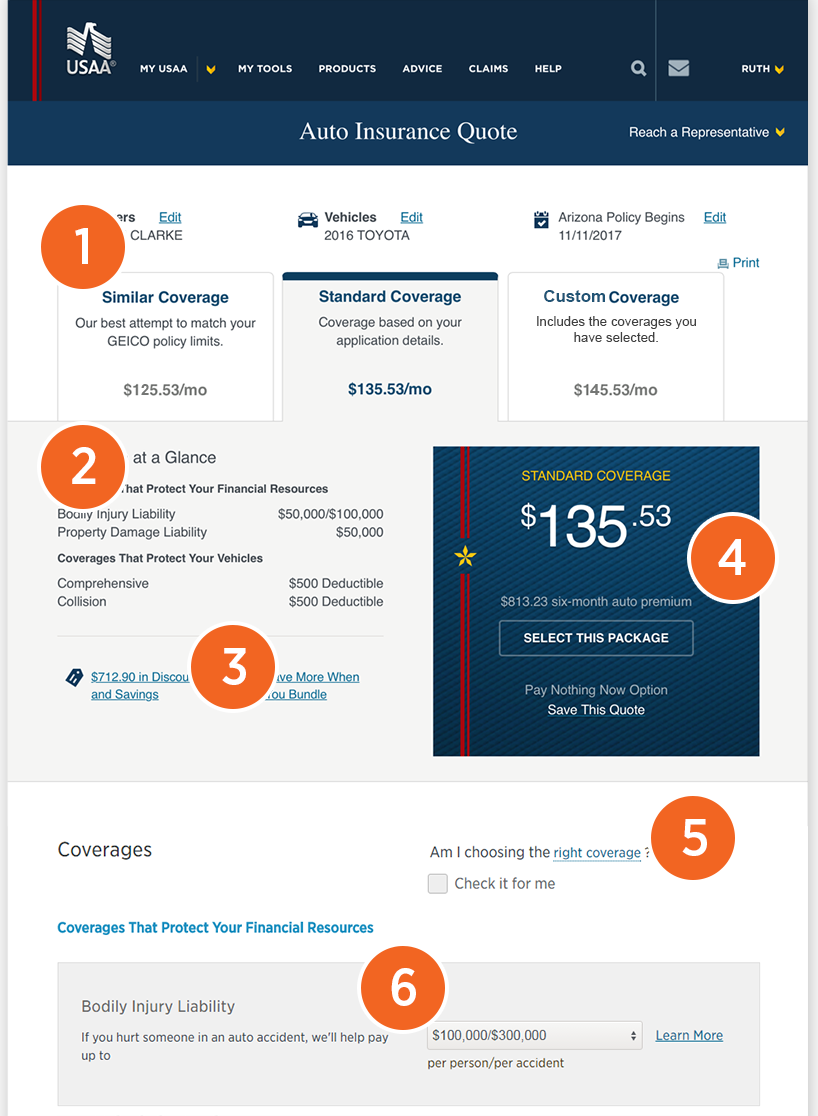
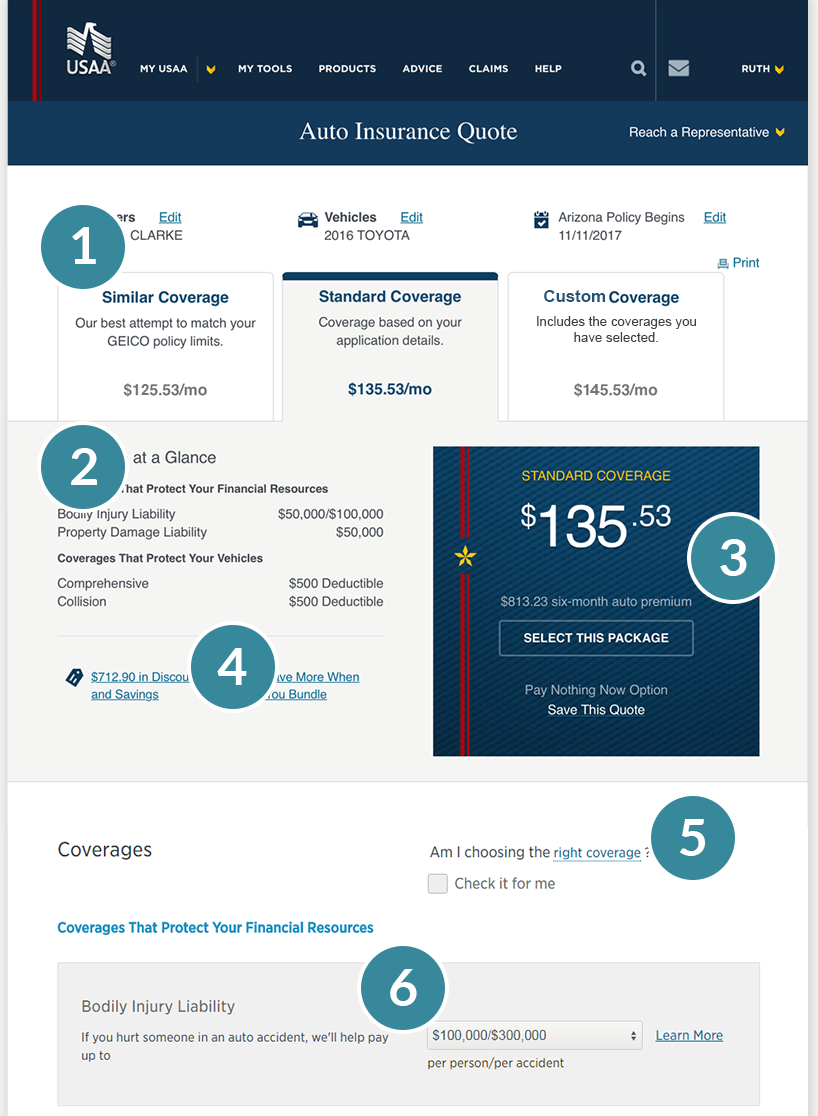
color updates

diff --git a/uc/addSub.html b/uc/addSub.html
@@ -173,7 +173,7 @@
                         <p>Our research revealed two different types of user:</p>
                         </p>
 
-                        <div class="bg-llblue pt-4 px-4 pb-2 rounded">
+                        <div class="bg-llgray pt-4 px-4 pb-2 rounded">
                             <h4>The Shopper</h4>
                             <p>“I’m researching new cars and wonder what the cost of insurance would be for each. Insurance plays an important part in my decision process.”</p>
                             <p class="text-detail">
@@ -233,7 +233,7 @@
                             <div class="col-md-8">
                                 <h3 class="mt-3">The Big Idea</h3>
                                 <p>After synthesizing our research data, one key technical insight stood out:</p>
-                                <div class="pt-4 px-4 pb-2 bg-llgray">
+                                <div class="pt-4 px-4 pb-2 bg-secondary">
                                     <p>"USAA only needs a VIN to generate a quote for a different vehicle."</p>
                                 </div>
 
@@ -303,11 +303,11 @@
                         </h3>
                         <div class="row">
                             <div class="col-12 px-0">
-                                <img src="../assets/img/portfolio/addSub-final.png" class="img-fluid border !shadowy">
+                                <img src="../assets/img/portfolio/addSub-final.png" class="img-fluid border">
                                 <p class="text-detail mt-2 text-center"> "Happy Path" Concept</p>
                             </div>
                             <div class="col-12 px-0 mt-4 text-center">
-                                <img src="../assets/img/portfolio/addSub-final2.png" class="w-50 border !shadowy">
+                                <img src="../assets/img/portfolio/addSub-final2.png" class="w-100 border">
                                 <p class="text-detail mt-2 text-center"> Edge Case Concepts</p>
                             </div>
                         </div>
@@ -365,7 +365,7 @@
         </section>
 
 
-        <section class="page-section border-top !bg-lorange">
+        <section class="page-section !border-top bg-secondary">
             <div class="container text-center">
                 <a href="../index.html"><button type="button" class="btn btn-primary btn-lg">
                     

diff --git a/uc/air.html b/uc/air.html
@@ -211,8 +211,8 @@
                                 <ol class="text-detail">
                                     <li><strong>Package Tabs</strong> - increase the affordance</li>
                                     <li class="mt-3 mt-lg-4"><strong>Coverage at a Glance</strong> - not needed according to competitive analysis</li>
-                                    <li class="mt-3 mt-lg-4"><strong>Bundling</strong> - gets lost in all other things</li>
                                     <li class="mt-3 mt-lg-4"><strong>Price Section/Primary CTA</strong> - "looks like an ad," hollow CTA is uncommon pattern as primary, far from scan view</li>
+                                    <li class="mt-3 mt-lg-4"><strong>Bundling</strong> - gets lost in all other things</li>
                                     <li class="mt-3 mt-lg-4"><strong>Policy Checker</strong> - gets lost, increase affordance, move up in the hierarchy</li>
                                     <li class="mt-3 mt-lg-4"><strong>Coverage Item</strong> - bulky, can be simplified</li>
                                 </ol>
@@ -466,19 +466,19 @@
 
 
 
-        <div class="addsub-container">
-            <section class="page-section border-top bg-secondary">
-                <div class="container text-center">
-                    <a href="addSub.html"><button type="button" class="btn btn-primary btn-lg">
+
+        <section class="page-section border-top bg-secondary">
+            <div class="container text-center">
+                <a href="addSub.html"><button type="button" class="btn btn-primary btn-lg">
                     NEXT: Add/Replace Vehicle
                     <svg width="1em" height="1em" viewBox="0 0 16 16" class="bi bi-arrow-right" fill="currentColor" xmlns="http://www.w3.org/2000/svg">
                         <path fill-rule="evenodd" d="M1 8a.5.5 0 0 1 .5-.5h11.793l-3.147-3.146a.5.5 0 0 1 .708-.708l4 4a.5.5 0 0 1 0 .708l-4 4a.5.5 0 0 1-.708-.708L13.293 8.5H1.5A.5.5 0 0 1 1 8z"></path>
                       </svg>
                     </button>
                 </a>
-                </div>
-            </section>
-        </div>
+            </div>
+        </section>
+
     </div>
 
 

diff --git a/index.html b/index.html
@@ -229,8 +229,8 @@
 
 
         <!-- Copyright Section-->
-        <div class="py-4 text-center bg-white border-top">
-            <div class="container"><small> © 2021 Eric Ortiz</small></div>
+        <div class="bottom py-4 text-center bg-white border-top">
+            <div class="container"><img src="assets/img/eo_logo.png" class="logo-img mr-1"><small> © 2021 Eric Ortiz</small></div>
         </div>
         <!-- Scroll to Top Button (Only visible on small and extra-small screen sizes)-->
         <div class="scroll-to-top d-lg-none position-fixed">

diff --git a/css/new-styles.css b/css/new-styles.css
@@ -95,6 +95,11 @@ h4,
     margin: 0 0 .21rem .8rem;
 }
 
+.bottom .logo-img {
+    height: 16px;
+    margin: 0 0 .21rem .8rem;
+}
+
 .btn-primary {
     color: #fff;
     background-color: #07889B;
@@ -631,7 +636,7 @@ h3,
     width: var(--size);
     height: var(--size);
     top: 0;
-    background: #f26522;
+    background: #38889b;
     border-radius: 50%;
     text-align: center;
     box-shadow: 1px 1px 0 #ddd;

diff --git a/optirest/css/new-styles.css b/optirest/css/new-styles.css
@@ -620,7 +620,7 @@ h3,
 
 .audit ol li::before {
     content: counter(my-awesome-counter);
-    color: #f26522;
+    color: #38889b;
     font-size: 1.25rem;
     font-weight: 400;
     position: absolute;
